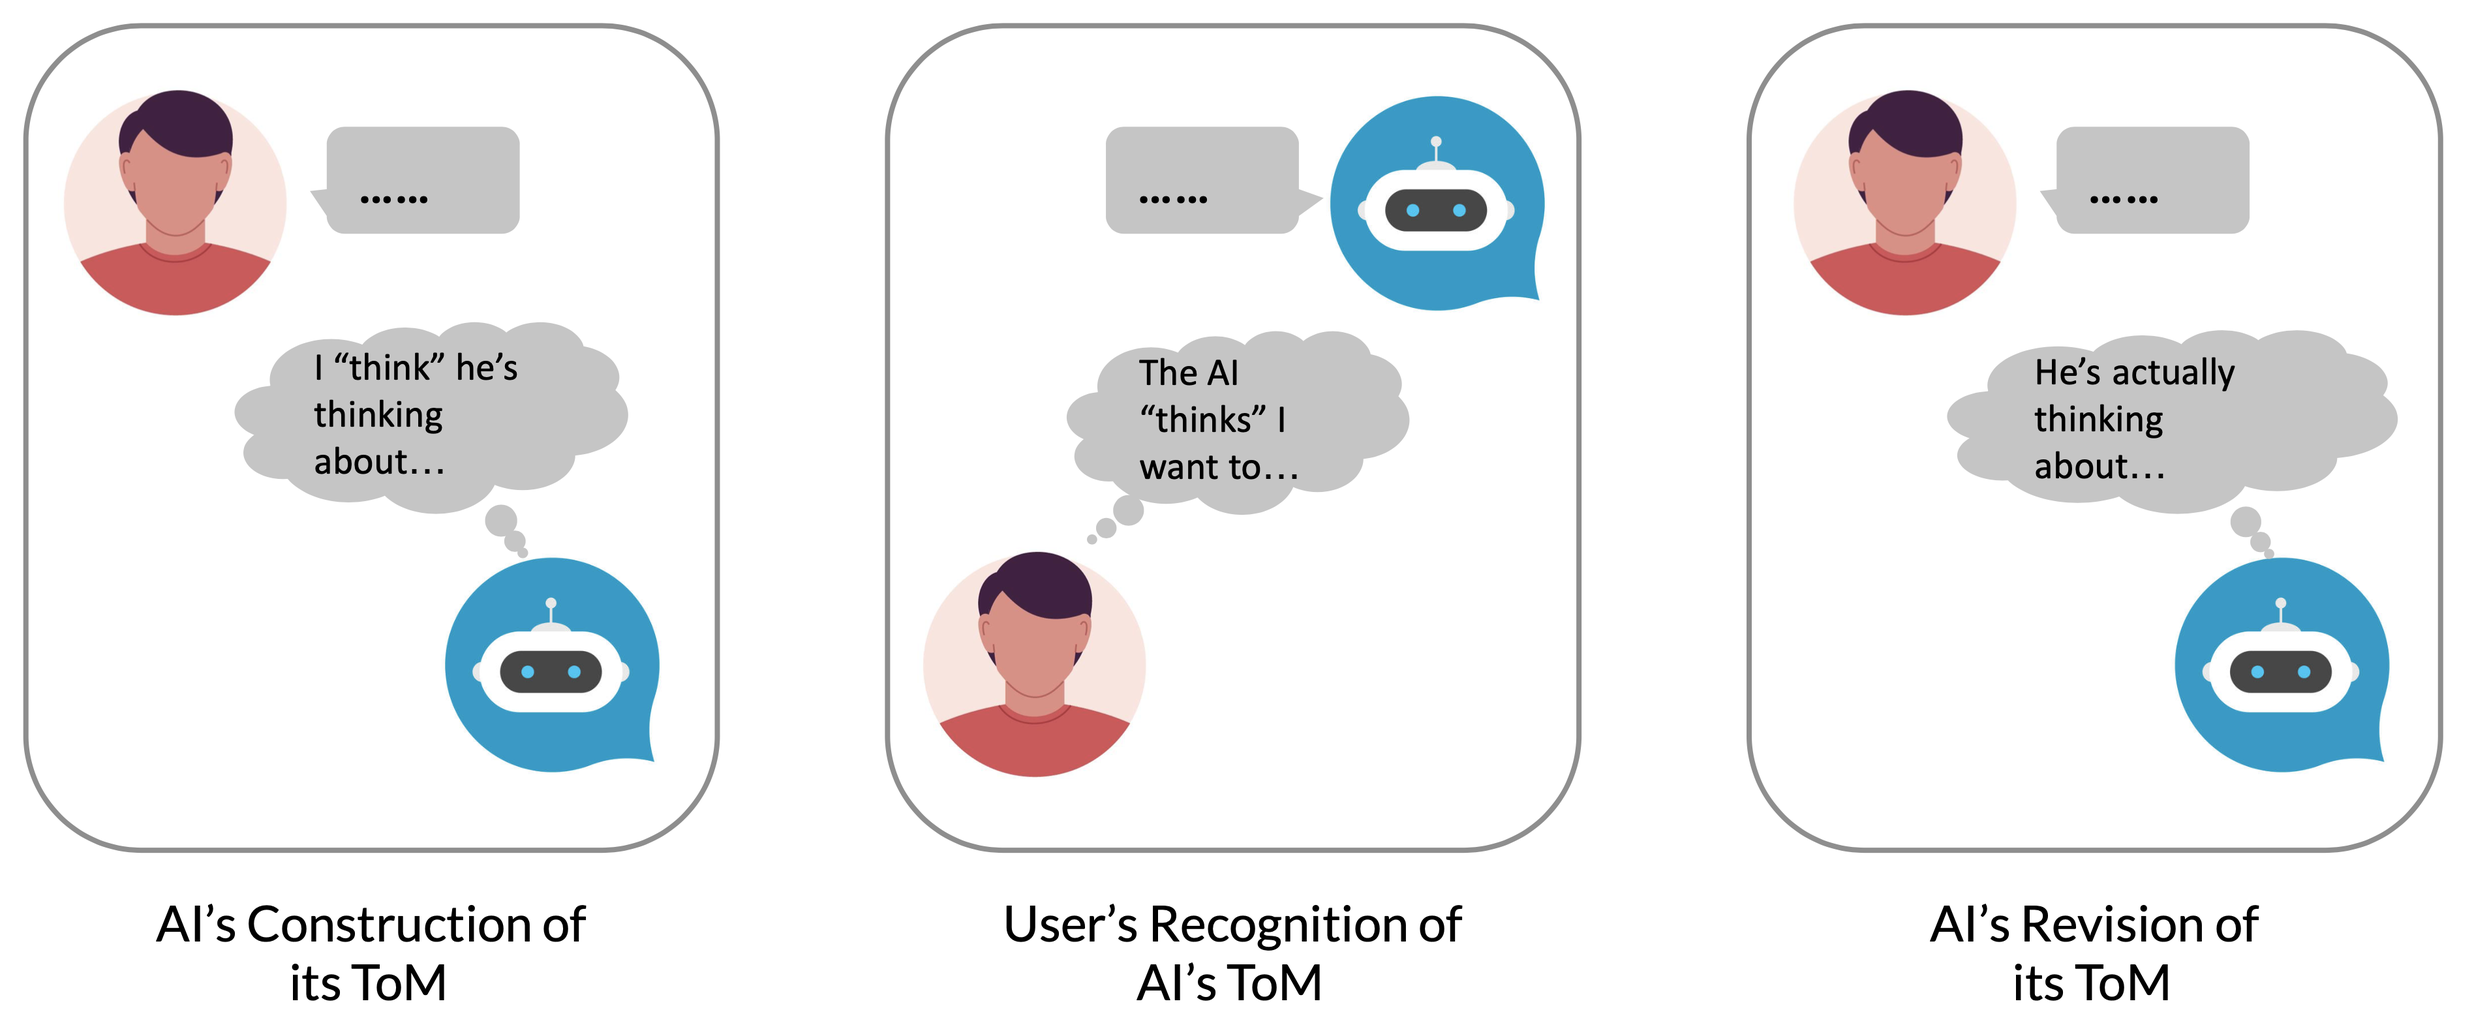
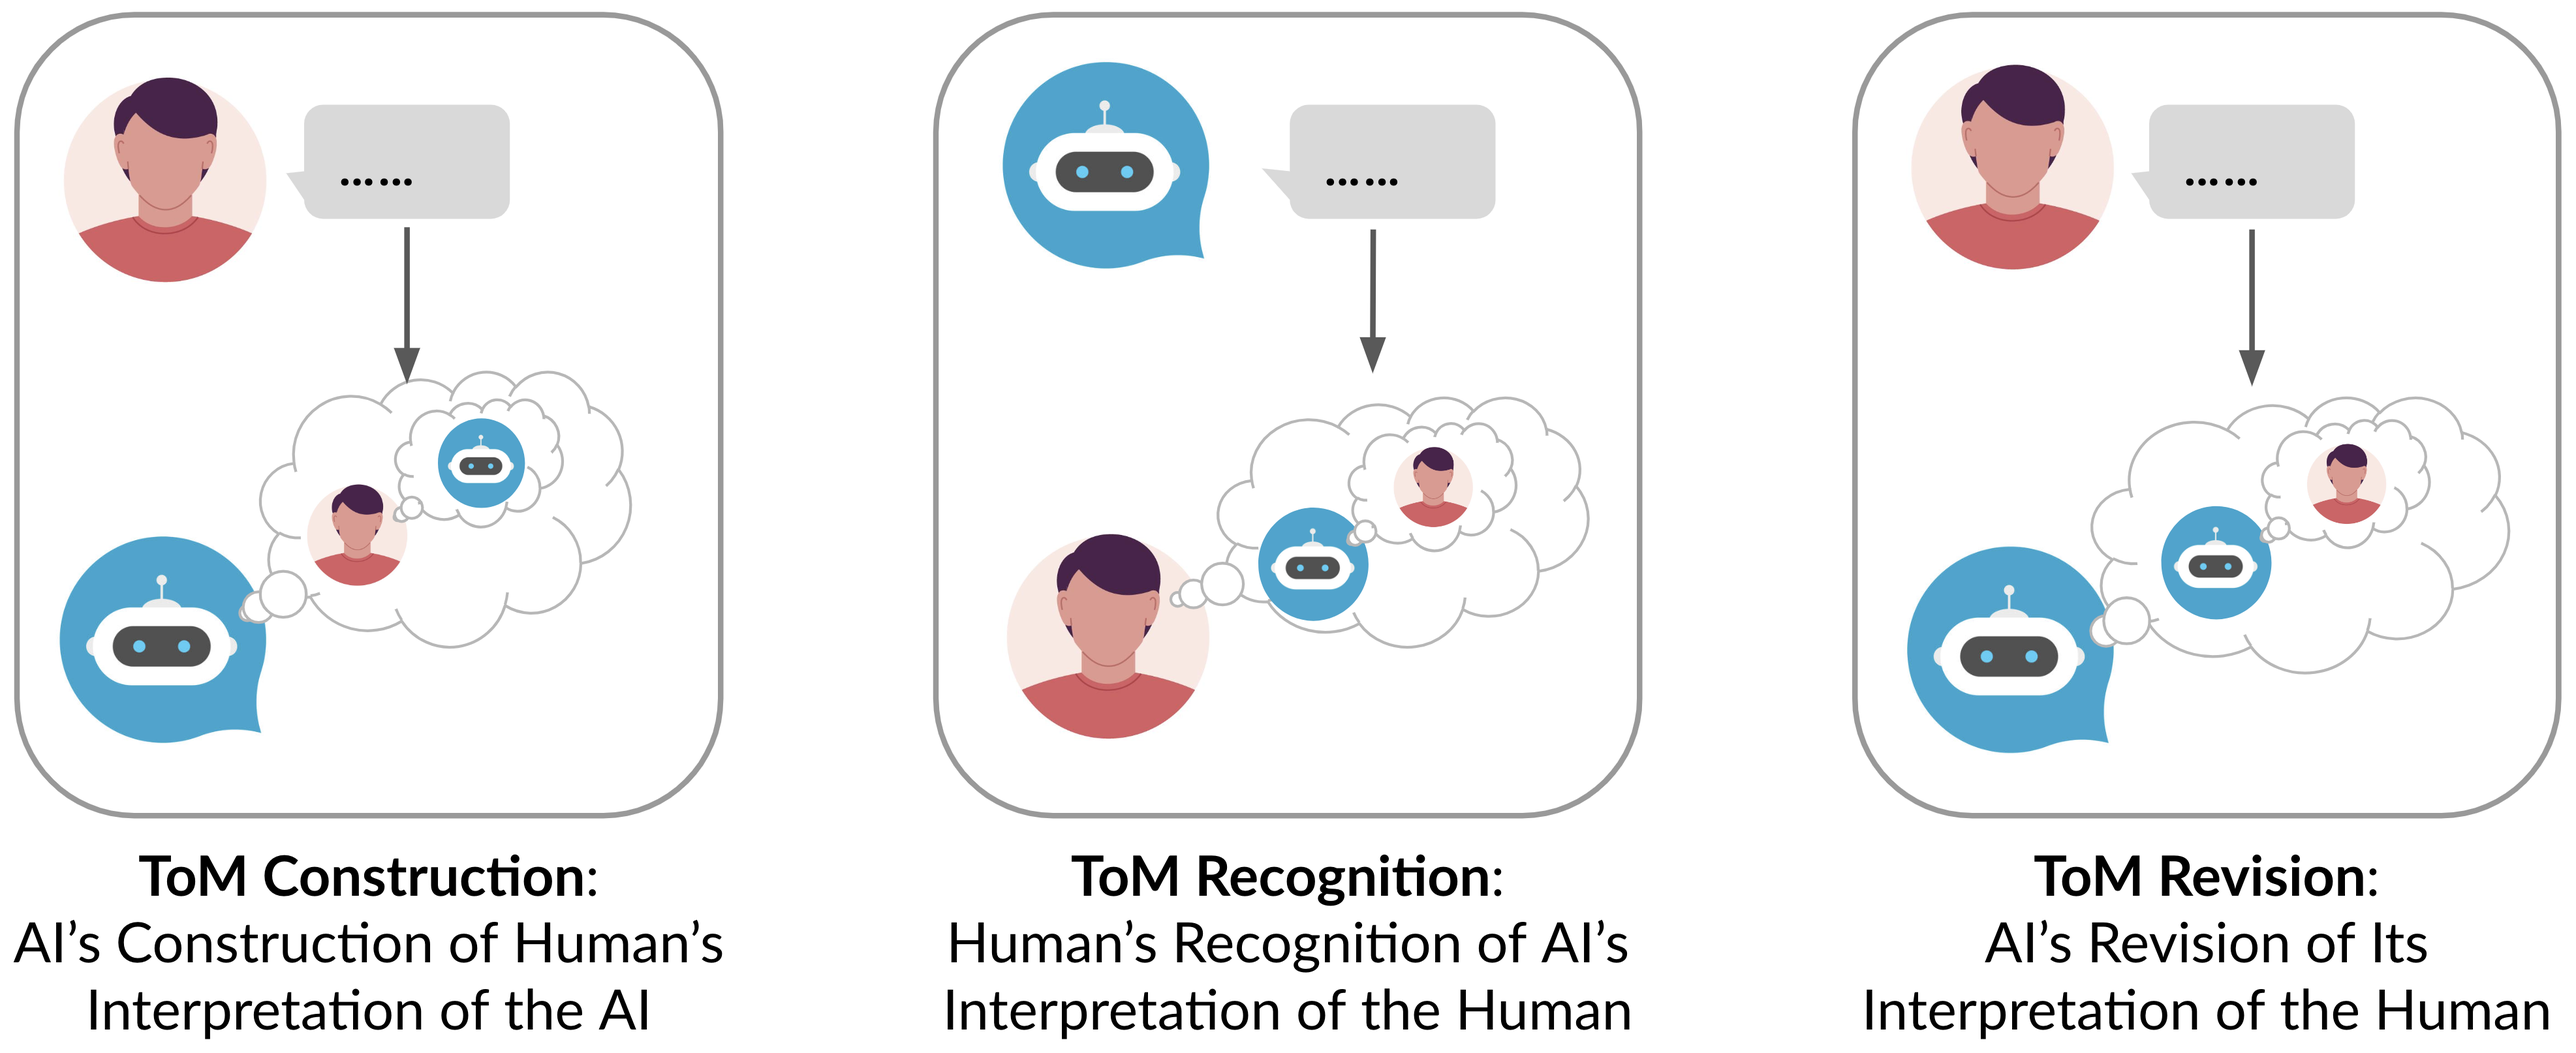
update

diff --git a/index.html b/index.html
@@ -83,11 +83,11 @@
                     </div>
                 </div>
                 <div class="col-lg intro">
-                    <p>I am a Carnegie Bosch Postdoctoral Fellow at the <a href="https://hcii.cmu.edu/" target="_blank">Human-Computer Interaction Institute (HCII)</a>, <a href="https://www.cmu.edu/" target="_blank">Carnegie Mellon University</a>. I am working with <a href="https://hcii.cmu.edu/people/hong-shen" target="_blank">Dr. Hong Shen</a> and <a href="https://hcii.cmu.edu/people/jodi-forlizzi" target="_blank">Dr. Jodi Forlizzi</a>. I completed my Ph.D. in <a href="https://www.cc.gatech.edu/degree-programs/phd-human-centered" target="_blank">Human-Centered Computing</a> at <a href="https://www.gatech.edu/" target="_blank">Georgia Tech</a>. My research broadly lies in Human-AI Interaction, Computer Supported Cooperative Work (CSCW), Cognitive Science, and Responsible AI. I study the design of AI systems that can account for human's changing perceptions of AI during communications through the lens of <a href="http://qiaosiwang.me/Publications/tominhai-chi24workshop.pdf">Mutual Theory of Mind</a>. Recently, I am interested in mitigating people's harmful perceptions of AI through responsible AI practices in early-stage UX design. I leverage a mix of qualitative and quantitative methods such as interviews, surveys, co-design, lab experiments, and statistical modeling to study these problems. My research has been published at top-tier HCI venues such as ACM CHI, CSCW, and DIS. In 2021, I was recognized with the <a href="https://gvu.gatech.edu/james-d-foley-gvu-center-endowment">GVU Foley Scholar award</a>, the highest award for student excellence in research contributions to computing at Georgia Tech. 
+                    <p>I am a Carnegie Bosch Postdoctoral Fellow at the <a href="https://hcii.cmu.edu/" target="_blank">Human-Computer Interaction Institute (HCII)</a>, <a href="https://www.cmu.edu/" target="_blank">Carnegie Mellon University</a>. I am working with <a href="https://hcii.cmu.edu/people/hong-shen" target="_blank">Dr. Hong Shen</a> and <a href="https://hcii.cmu.edu/people/jodi-forlizzi" target="_blank">Dr. Jodi Forlizzi</a>. My research broadly lies in Human-AI Interaction, Computer Supported Cooperative Work (CSCW), Cognitive Science, and Responsible AI. I study the design of AI systems that can account for human's changing perceptions of AI during communications through the lens of <a href="http://qiaosiwang.me/Publications/tominhai-chi24workshop.pdf">Mutual Theory of Mind</a>. I leverage a mix of qualitative and quantitative methods such as interviews, surveys, co-design, lab experiments, and statistical modeling to study these problems. My research has been published at top-tier HCI venues such as ACM CHI, CSCW, and DIS. In 2021, I was recognized with the <a href="https://gvu.gatech.edu/james-d-foley-gvu-center-endowment">GVU Foley Scholar award</a>, the highest award for student excellence in research contributions to computing at Georgia Tech. 
                         
                         <!-- I am a human-centered AI researcher working at the intersection of Human-AI Interaction, Computer Supported Cooperative Work (CSCW), and Cognitive Science. In my Ph.D. research, I posit the Mutual Theory of Mind framework, inspired by our basic human capability to surmise what is happening in others' minds (also known as "<a href="https://en.wikipedia.org/wiki/Theory_of_mind" target="_blank">Theory of Mind</a>"), to enhance mutual understanding between humans and AIs during human-AI communication. My work specifically focuses on the human-AI communication process during AI-mediated social interaction in online learning, where AI agents can connect socially isolated online learners by providing personalized social recommendations to online learners based on information extracted from students' posts on the online class discussion forums.  -->
                 
-                    <p>I received my bachelor of science degree from <a href="http://www.washington.edu/" target="_blank">University of Washington, Seattle</a> in <a href="https://ischool.uw.edu/programs/informatics" target="_blank">informatics</a> and <a href="http://www.psych.uw.edu" target="_blank">psychology</a>. I worked closely with the <a href="https://www.hcde.washington.edu" target="_blank">Department of Human-Centered Design and Engineering</a>, <a href="https://ischool.uw.edu" target="_blank">the Information School</a>, <a href="https://dub.washington.edu" target="_blank">the DUB group</a>, and <a href="http://www.psych.uw.edu" target="_blank">the psychology department</a> on several research projects during my undergraduate study. </p>
+                    <p> I completed my Ph.D. in <a href="https://www.cc.gatech.edu/degree-programs/phd-human-centered" target="_blank">Human-Centered Computing</a> at <a href="https://www.gatech.edu/" target="_blank">Georgia Tech</a> in 2024. I received my bachelor of science degree from <a href="http://www.washington.edu/" target="_blank">University of Washington, Seattle</a> in <a href="https://ischool.uw.edu/programs/informatics" target="_blank">informatics</a> and <a href="http://www.psych.uw.edu" target="_blank">psychology</a>. I worked closely with the <a href="https://www.hcde.washington.edu" target="_blank">Department of Human-Centered Design and Engineering</a>, <a href="https://ischool.uw.edu" target="_blank">the Information School</a>, <a href="https://dub.washington.edu" target="_blank">the DUB group</a>, and <a href="http://www.psych.uw.edu" target="_blank">the psychology department</a> on several research projects during my undergraduate study. </p>
 
                     <p>I love indoor bouldering, hiking, and playing with my cat Gouda. </p>
                     
@@ -103,10 +103,10 @@
                 <h4>Mutual Theory of Mind in Human-AI Interaction</h4>
                 <div class="row mb-5">
                     <div class="col-xl-6 col-lg-6">
-                        <img src="img/mtom.png" alt="mutual theory of mind framework for human-AI interaction" style="max-width: 100%; height: auto;">
+                        <img src="img/mtom.png" alt="mutual theory of mind framework for human-AI communication" style="max-width: 100%; height: auto;">
                     </div>
                     <div class="col-sm">
-                        <b>Overview:</b> I study human-AI interaction through the lens of Mutual Theory of Mind (MToM), where both parties involved in the interaction possess some levels of the human-equivalent capability of Theory of Mind (ToM). I break down the human-AI interaction process into three stages to construct the MToM framework as shown on the left: construction, recognition, and revision. Based on the MToM framework, much of my Ph.D. thesis work empirically explores and criticaly examines the design, impact, and techniques of AI systems that present themselves with "mind-reading" capability.
+                        <b>Overview:</b> I study human-AI interaction through the lens of Mutual Theory of Mind (MToM), where both parties involved in the interaction possess some levels of the human-equivalent capability of Theory of Mind (ToM). I break down the human-AI communication process into three stages to construct the MToM framework as shown on the left: ToM construction, ToM recognition, and ToM revision. Based on the MToM framework, much of my Ph.D. thesis work empirically explores and criticaly examines the design, impact, and techniques of AI systems that present themselves with "mind-reading" capability.
                     </div>
                 </div>
                 <div class="row mb-5">
@@ -124,7 +124,11 @@
 
                         <b>Theory of Mind in Human-AI Interaction.</b> <a class="file-link" href="Publications/tominhai-chi24workshop.pdf">[PDF]</a><br>
                         <u>Qiaosi Wang</u>, Sarah E. Walsh, Mei Si, Jeffrey O. Kephart, Justin D. Weisz, Ashok K. Goel <br>
-                        To Appear in CHI 2024 Workshops: the ACM CHI Conference on Human Factors in Computing Systems.
+                        CHI 2024 Workshops: the ACM CHI Conference on Human Factors in Computing Systems.
+                        <p></p>
+
+                        <b>Mutual Theory of Mind for Human-AI Communication in AI-Mediated Social Interaction.</b> <a class="file-link" href="Publications/qiaosiwang-thesis-final.pdf">[PDF]</a><br>
+                        <u>Qiaosi Wang</u>. Ph.D. Thesis. 2024. Georgia Institute of Technology.<br>
                     </div>
                 </div>
 
